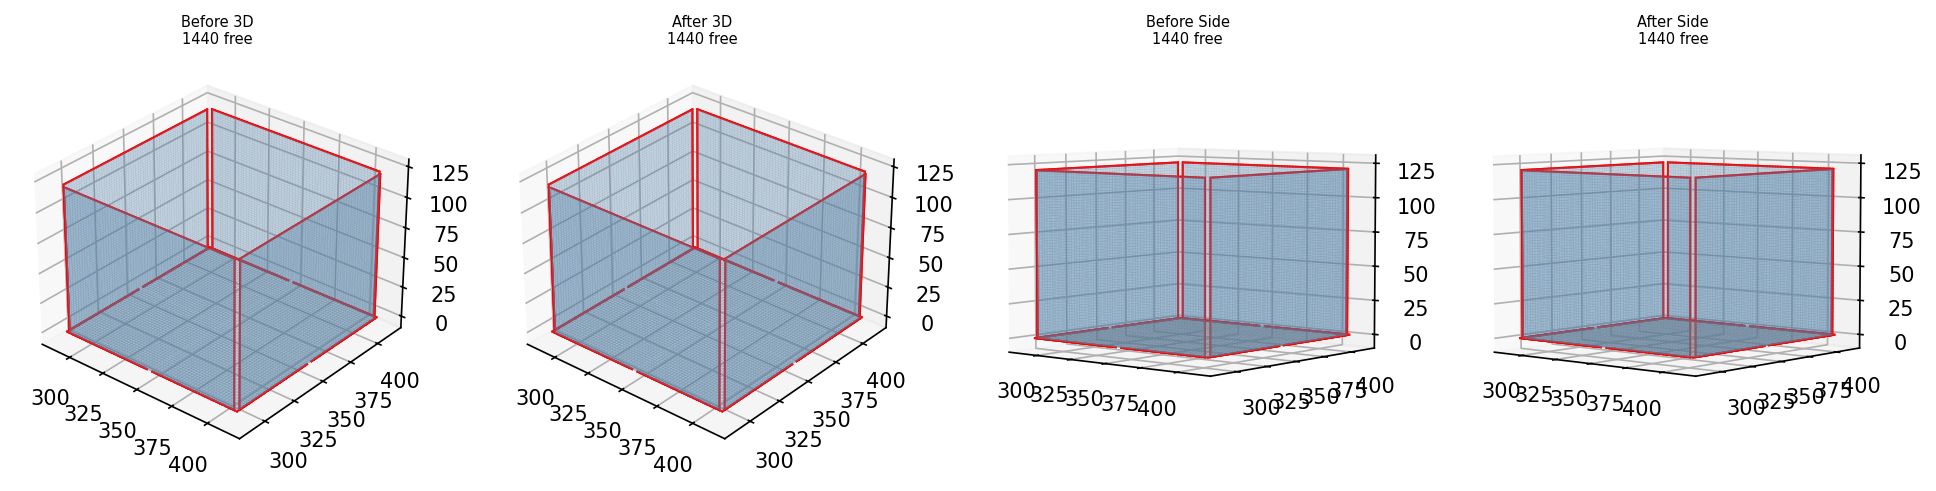
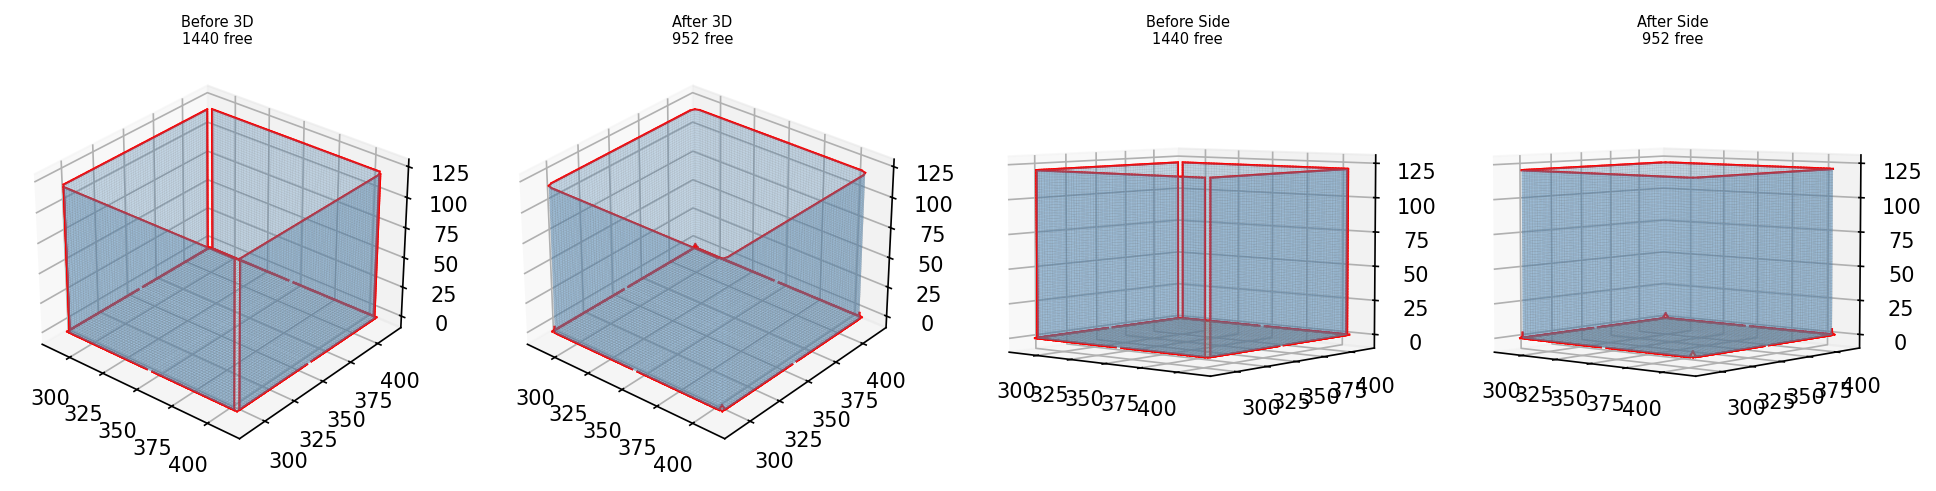
Phase 5a stitch results — 2026-04-23 12:52 KST

diff --git a/README.md b/README.md
@@ -4,9 +4,9 @@
 
 ---
 
-# Origami-Gemini-Gen — Phase 5a Stitch + Phase 6 (2026-04-23 12:18 KST)
+# Origami-Gemini-Gen — Phase 5a Stitch (2026-04-23 12:52 KST)
 
-Phase 5a stitcher: most cases 0 weld pairs (edges not close enough after fold). Staircase got 42 pairs at res=2.5.
+Updated phase 5a results after stitcher fixes. Cross: 128 weld pairs, box_unfolding: 248 weld pairs. Significant improvement.
 
 ## Phase 5a: Proximity Stitching — Overview
 ![phase5a_results](phase5a_results.png)
@@ -19,15 +19,3 @@ Phase 5a stitcher: most cases 0 weld pairs (edges not close enough after fold). 
 
 ### L-Shape Detail
 ![phase5a_lshape](phase5a_l_shape.png)
-
-## Phase 6: Bump & Cut — Overview
-![phase6_results](phase6_results.png)
-
-### L-Shape Detail
-![phase6_lshape](phase6_l_shape.png)
-
-### T-Shape Detail
-![phase6_tshape](phase6_t_shape.png)
-
-### Cross Detail
-![phase6_cross](phase6_cross.png)
